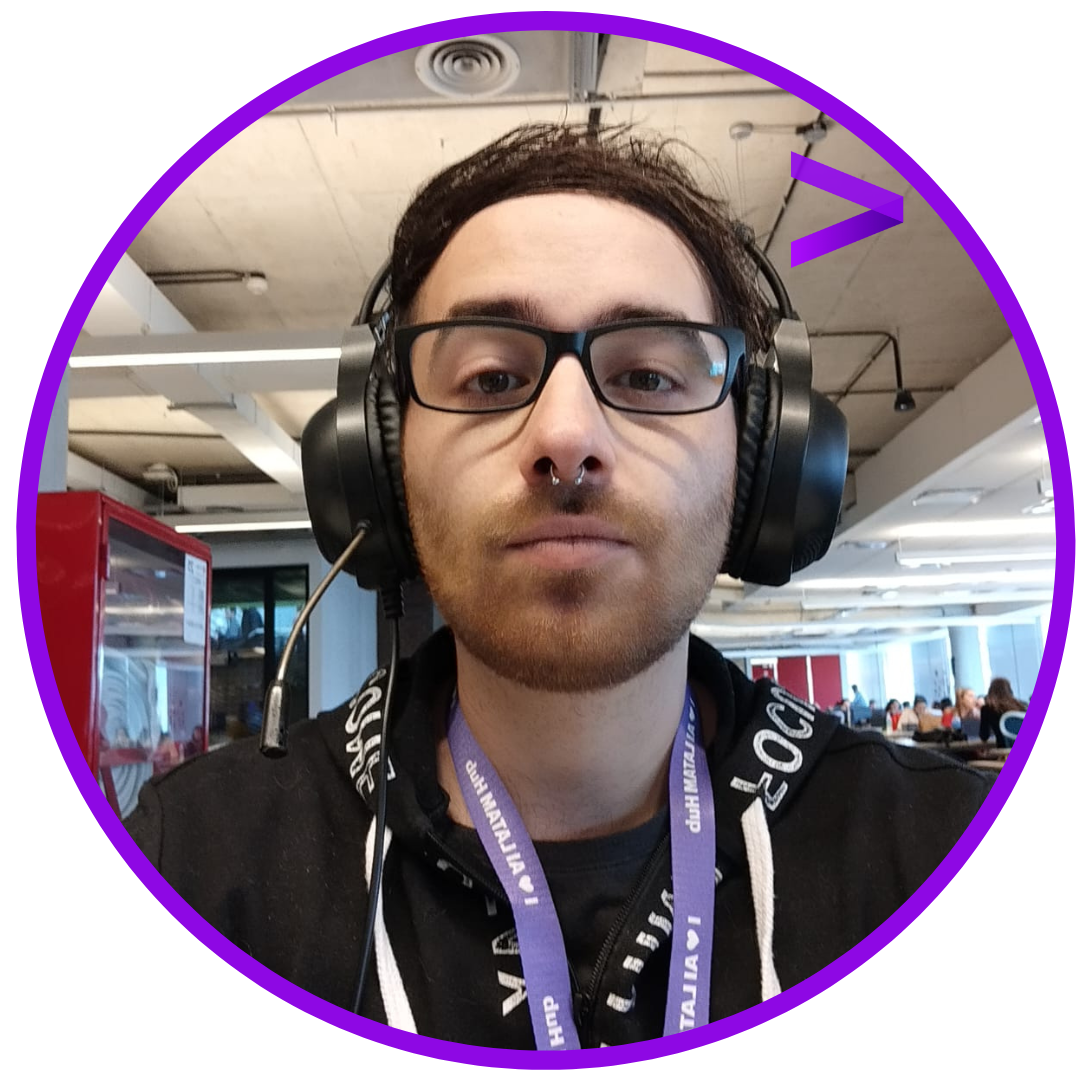
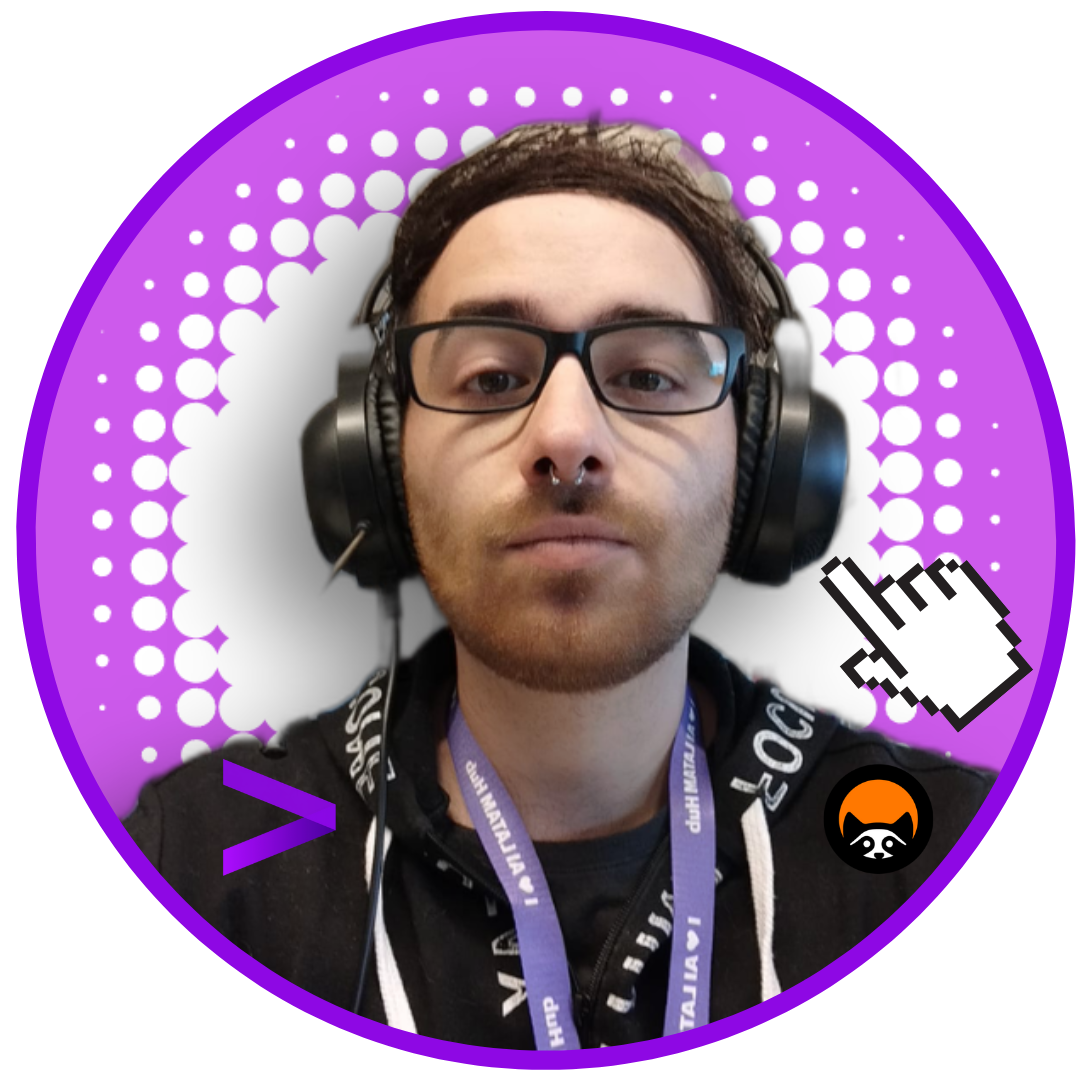
Upd :recycle: - Image & courses

diff --git a/en-US/index.html b/en-US/index.html
@@ -359,10 +359,11 @@
                         <article class="Platzi">
                             <img src="https://raw.githubusercontent.com/caidevOficial/Logos/master/Instituciones/Platzi.png" alt="Platzy Logo" height="30"><br>
                             <ul>
-                                <li>Work environment course for Data Science with <strong>Jupiter Notebook & Anaconda</strong> [22 hs] - October 2022 - <a class="green" href="javascript:openURL('https://platzi.com/p/facufalcone/curso/2434-jupyter-notebook/diploma/detalle/','500','500')">Link to Certificate </a><img src="../assets/icons/new-gif-image.gif"alt="New" height="20"></li>
+                                <li>Mathematical functions for <strong>Data Science</strong> and <strong>Artificial Intelligence</strong> [12 hs] - October 2022 - <a class="green" href="javascript:openURL('https://platzi.com/p/facufalcone/curso/2701-course/diploma/detalle/','500','500')">Link to Certificate </a><img src="../assets/icons/new-gif-image.gif"alt="New" height="20"></li>
+                                <li>Work environment course for Data Science with <strong>Jupiter Notebook & Anaconda</strong> [10 hs] - October 2022 - <a class="green" href="javascript:openURL('https://platzi.com/p/facufalcone/curso/2434-jupyter-notebook/diploma/detalle/','500','500')">Link to Certificate </a><img src="../assets/icons/new-gif-image.gif"alt="New" height="20"></li>
                                 <li>Data manipulation & Data transformation with <strong>Python</strong> [22 hs] - October 2022 - <a class="green" href="javascript:openURL('https://platzi.com/p/facufalcone/curso/4095-road-to-data-diploma/diploma/detalle/','500','500')">Link to Certificate </a><img src="../assets/icons/new-gif-image.gif"alt="New" height="20"></li>
-                                <li>Data manipulation and transformation with <strong>Pandas & NumPy</strong> [11 hs] - September 2022 - <a class="green" href="javascript:openURL('https://platzi.com/p/facufalcone/curso/2912-pandas-numpy/diploma/detalle/','500','500')">Link to Certificate </a><img src="../assets/icons/new-gif-image.gif"alt="New" height="20"></li>
-                                <li>Data visualization course with <strong>Matplotlib & Seaborn</strong> [10 hs] - September 2022 - <a class="green" href="javascript:openURL('https://platzi.com/p/facufalcone/curso/2913-matplotlib-seaborn/diploma/detalle/','500','500')">Link to Certificate </a><img src="../assets/icons/new-gif-image.gif"alt="New" height="20"></li>
+                                <li>Data manipulation and transformation with <strong>Pandas & NumPy</strong> [11 hs] - September 2022 - <a class="green" href="javascript:openURL('https://platzi.com/p/facufalcone/curso/2912-pandas-numpy/diploma/detalle/','500','500')">Link to Certificate </a></li>
+                                <li>Data visualization course with <strong>Matplotlib & Seaborn</strong> [10 hs] - September 2022 - <a class="green" href="javascript:openURL('https://platzi.com/p/facufalcone/curso/2913-matplotlib-seaborn/diploma/detalle/','500','500')">Link to Certificate </a></li>
                                 <li>Professional <strong>Python</strong> Course [15 hs] - March 2022 - <a class="green" href="javascript:openURL('https://platzi.com/p/facufalcone/curso/2397-python-profesional/diploma/detalle/','500','500')">Link to Certificate </a></li>
                                 <li>Linear Data Structures with <strong>Python</strong> [15 hs] - January 2022 - <a class="green" href="javascript:openURL('https://platzi.com/p/facufalcone/curso/2299-estructuras-datos-python/diploma/detalle/','500','500')">Link to Certificate </a></li>
                                 <li><strong>Google Cloud Platform</strong> Training [20 hs] - January 2022 - <a class="green" href="javascript:openURL('https://platzi.com/p/facufalcone/curso/1911-course/diploma/detalle/','500','500')">Link to Certificate </a></li>

diff --git a/es-AR/index.html b/es-AR/index.html
@@ -343,10 +343,11 @@
                         <article class="Platzi">
                             <img src="https://raw.githubusercontent.com/caidevOficial/Logos/master/Instituciones/Platzi.png" alt="Platzy Logo" height="30"><br>
                             <ul>
+                                <li>Funciones matem&aacute;ticas para <strong>Data Science</strong> e <strong>Inteligencia Artificial</strong> [12 hs] - Octubre 2022 - <a class="green" href="javascript:openURL('https://platzi.com/p/facufalcone/curso/curso/2701-course/diploma/detalle/','500','500')">Enlace a Certificado </a><img src="../assets/icons/new-gif-image.gif"alt="New" height="20"></li>
                                 <li>Curso de Entorno de Trabajo para Ciencia de Datos con <strong>Jupyter Notebooks y Anaconda</strong> [10 hs] - Octubre 2022 - <a class="green" href="javascript:openURL('https://platzi.com/p/facufalcone/curso/2434-jupyter-notebook/diploma/detalle/','500','500')">Enlace a Certificado </a><img src="../assets/icons/new-gif-image.gif"alt="New" height="20"></li>
                                 <li>Manipulaci&oacute;n y Transformación de Datos con Python [22 hs] - Octubre 2022 - <a class="green" href="javascript:openURL('https://platzi.com/p/facufalcone/curso/4095-road-to-data-diploma/diploma/detalle/','500','500')">Enlace a Certificado </a><img src="../assets/icons/new-gif-image.gif"alt="New" height="20"></li>
-                                <li>Manipulaci&oacute;n y Transformación de Datos con Pandas y NumPy [11 hs] - Septiembre 2022 - <a class="green" href="javascript:openURL('https://platzi.com/p/facufalcone/curso/2912-pandas-numpy/diploma/detalle/','500','500')">Enlace a Certificado </a><img src="../assets/icons/new-gif-image.gif"alt="New" height="20"></li>
-                                <li>Visualizaci&oacute;n de Datos con Matplotlib y Seaborn [10 hs] - Septiembre 2022 - <a class="green" href="javascript:openURL('https://platzi.com/p/facufalcone/curso/2913-matplotlib-seaborn/diploma/detalle/','500','500')">Enlace a Certificado </a><img src="../assets/icons/new-gif-image.gif"alt="New" height="20"></li>
+                                <li>Manipulaci&oacute;n y Transformación de Datos con Pandas y NumPy [11 hs] - Septiembre 2022 - <a class="green" href="javascript:openURL('https://platzi.com/p/facufalcone/curso/2912-pandas-numpy/diploma/detalle/','500','500')">Enlace a Certificado </a></li>
+                                <li>Visualizaci&oacute;n de Datos con Matplotlib y Seaborn [10 hs] - Septiembre 2022 - <a class="green" href="javascript:openURL('https://platzi.com/p/facufalcone/curso/2913-matplotlib-seaborn/diploma/detalle/','500','500')">Enlace a Certificado </a></li>
                                 <li>Curso Profesional Python [15 hs] - Marzo 2022 - <a class="green" href="javascript:openURL('https://platzi.com/p/facufalcone/curso/2397-python-profesional/diploma/detalle/','500','500')">Enlace a Certificado </a></li>
                                 <li>Estructura de datos lineales con Python [15 hs] - Enero 2022 - <a class="green" href="javascript:openURL('https://platzi.com/p/facufalcone/curso/2299-estructuras-datos-python/diploma/detalle/','500','500')">Enlace a Certificado </a></li>
                                 <li>Entrenamiento en Google Cloud Platform [20 hs] - Enero 2022 - <a class="green" href="javascript:openURL('https://platzi.com/p/facufalcone/curso/1911-course/diploma/detalle/','500','500')">Enlace a Certificado </a></li>
